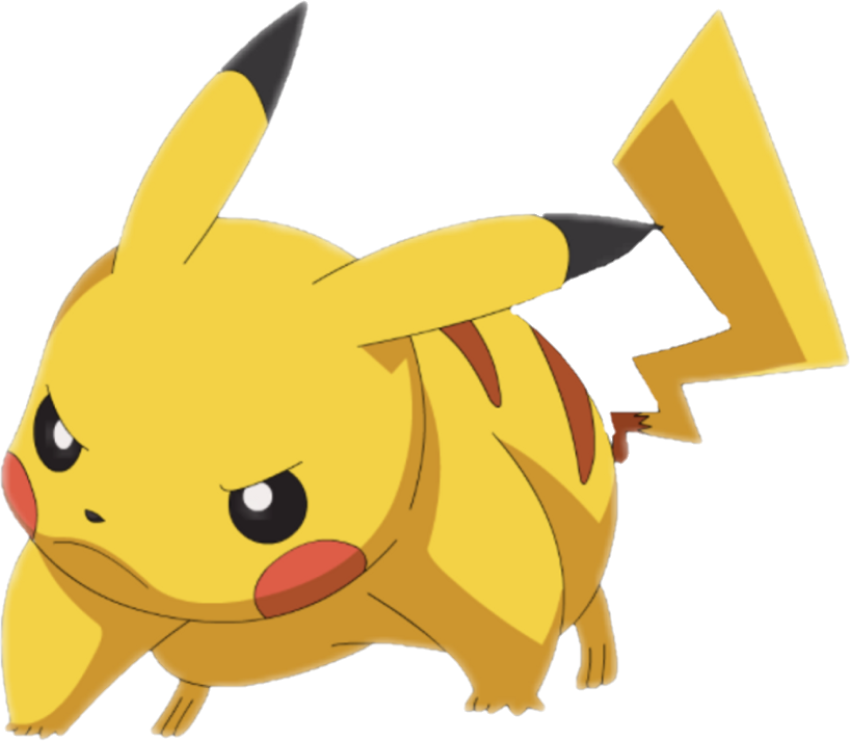
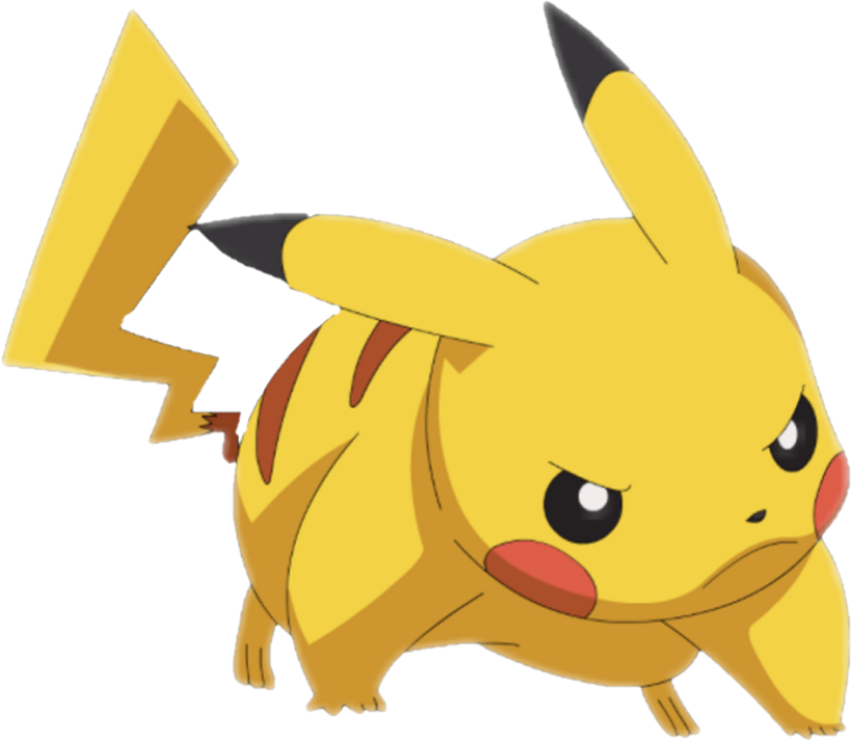
Init

diff --git a/res/css/style.css b/res/css/style.css
@@ -4,6 +4,7 @@
   box-sizing: border-box;
   margin: 0;
   padding: 0;
+  letter-spacing: 2px;
 }
 
 body {
@@ -16,36 +17,42 @@ body {
   background: url("../img/pikachu.png") no-repeat;
   background-size: contain;
   position: absolute;
-  top: 50%;
-  left: 25%;
-  transform: translate(-25%, -50%);
-  height: 300px;
-  width: 300px;
+  top: 70%;
+  left: 13%;
+  transform: translate(-13%, -70%);
+  height: 500px;
+  width: 500px;
 }
 
 #pokemon2 {
   background: url("../img/mewtwo.png") no-repeat;
   background-size: contain;
   position: absolute;
-  top: 50%;
-  left: 75%;
-  transform: translate(-75%, -50%);
-  height: 300px;
-  width: 300px;
+  top: 65%;
+  left: 87%;
+  transform: translate(-87%, -65%);
+  height: 500px;
+  width: 500px;
 }
 
 #lives {
   position: absolute;
-  top: 70%;
+  top: 85%;
   left: 25%;
-  transform: translate(-25%, -70%);
+  transform: translate(-25%, -85%);
+  font-size: 125%;
+  color: white;
+  font-weight: 700;
 }
 
 #lives2 {
   position: absolute;
-  top: 70%;
+  top: 85%;
   left: 75%;
-  transform: translate(-75%, -70%);
+  transform: translate(-75%, -85%);
+  font-size: 125%;
+  color: white;
+  font-weight: 700;
 }
 
 #attack {
@@ -53,11 +60,12 @@ body {
   top: 70%;
   left: 50%;
   transform: translate(-50%, -70%);
-  border-radius: 50%;
-  padding: 10px;
+  border-radius: 30px;
+  border: none;
+  padding: 1rem 2rem;
   color: white;
   font-weight: 700;
-  background: linear-gradient(to right, #B2FEAC, #6BEECE);
+  background: linear-gradient(to right, #A2DB95, #24CCAA);
 }
 
 #info {

diff --git a/res/js/main.js b/res/js/main.js
@@ -6,7 +6,7 @@ const info = document.getElementById("info");
 
 attack.onmousedown = () => {
   if (lives.innerHTML > 0 && lives2.innerHTML > 0) {
-    pokemon.style.left = "45%";
+    pokemon.style.left = "20%";
     lives2.innerHTML--;
   }
 
@@ -17,7 +17,7 @@ attack.onmousedown = () => {
 };
 
 attack.onmouseup = () => {
-    pokemon.style.left = "25%";
+    pokemon.style.left = "13%";
 };
 
 const interval = setInterval(() => {
